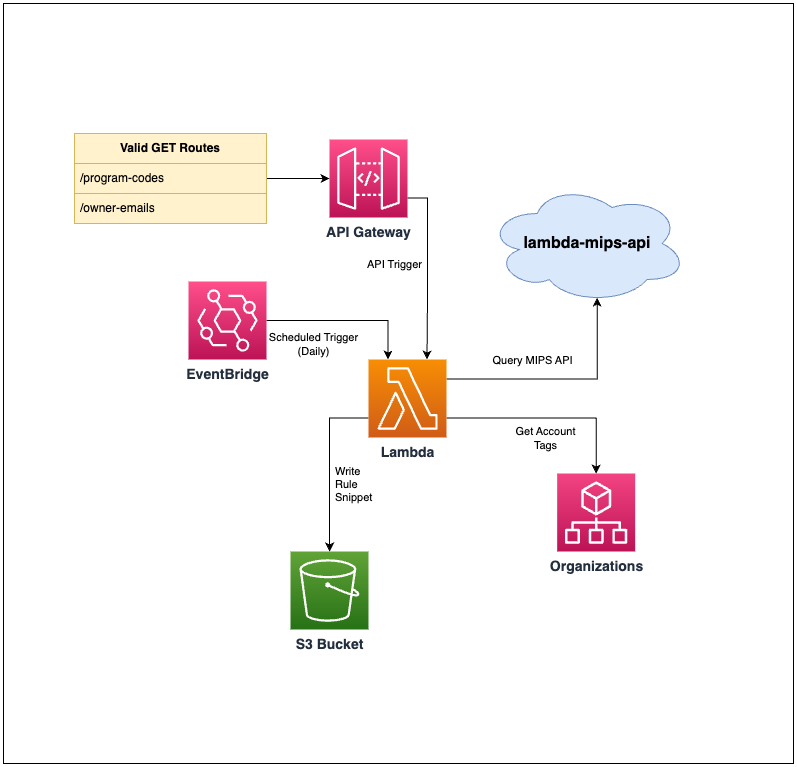
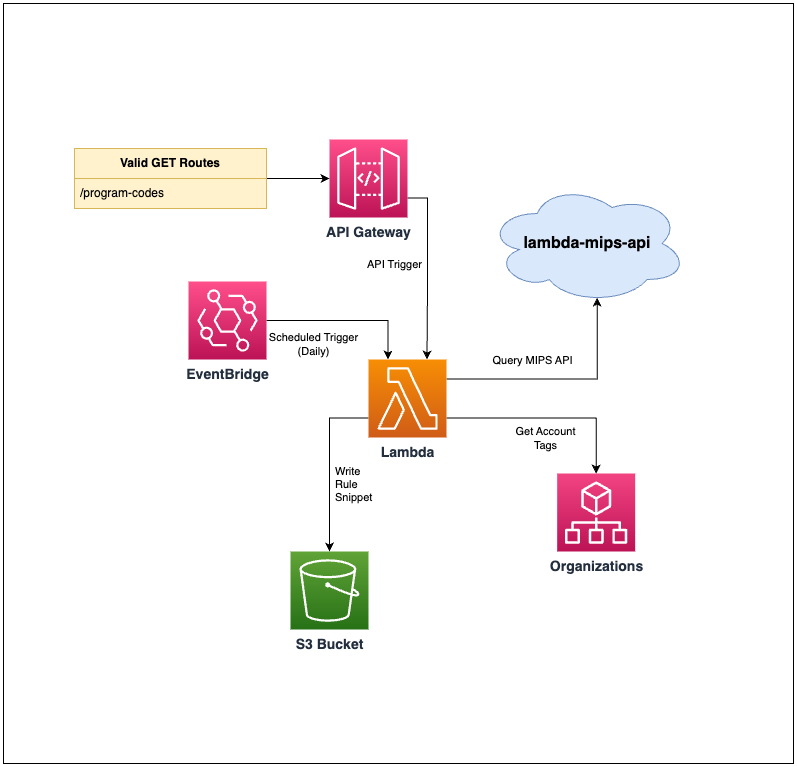
[IT-2460] Don't generate owner email rules
This generates invalid rules if there are account tags causing
the creation of REGULAR rules named for email addresses.

Remove the function per review.

Changed region(s): [[0.0903, 0.1499, 0.3312, 0.2999]]

diff --git a/README.md b/README.md
@@ -27,11 +27,6 @@ template parameter.
 Cost-category rules are created to assign line item costs to a category based on
 tags for the line item resource or its containing account.
 
-Two types of rules can be generated: rules for a Program Code category, or rules
-for an Owner Email category. The former assumes the tag contains a significant
-numeric code and requires additional external state, while the latter assumes
-that the entire tag value is a significant string.
-
 The order of the rules matters because processing will stop at the first match.
 For more information on rule processing, see the
 [AWS User Guide](https://docs.aws.amazon.com/awsaccountbilling/latest/aboutv2/manage-cost-categories.html).
@@ -47,16 +42,6 @@ First, this lambda will create cost-category rules that check a list of tags
 name, then also create rules for each account with an appropriate tag, and
 finally create rules to inherit the value from a listed tag if no other rule
 matches.
-
-#### Owner Email Category
-
-Rules for an Owner Email category can also be generated from existing account
-tags.
-
-In this case, we treat the tag value as authoritative (no code deduplication),
-and so we start with inheriting tag values from tags on individual resources. We
-then fall back to rules built from account tag values for any accounts tagged
-with a listed tag.
 
 ### Components
 
@@ -77,11 +62,10 @@ The following template parameters are passed through as environment variables
 | ------------------ | -------------------- | -------------------------------------------------------------------------- | ---------------------------------------------------------- |
 | ChartOfAccountsURL | ChartOfAccountsURL   | URL to the chart of accounts endpoint provided by `lambda-mips-api`        | https://lambda-mips-api.execute-api.amazonaws.com/accounts |
 | ProgramCodeTagList | ProgramCodeTagList   | Comma-separated list of tag names that may contain program-code assignment | CostCenter,CostCenterOther                                 |
-| OwnerEmailTagList  | OwnerEmailTagList    | Comma-separated list of tag names that may contain an owner email address  | OwnerEmail,synapseEmail                                    |
 
 ### Triggering
 
-Both functions will trigger on a nightly schedule, and can also be triggered
+The function will trigger on a nightly schedule, and can also be triggered
 manually via API Gateway endpoints.
 
 The CloudFormation template will output the available endpoint URLs for manually
@@ -92,15 +76,13 @@ stage name and endpoint path, e.g.: `https://<ApiDomain>/Prod/program-codes`
 
 ### Output
 
-This lambda will write JSON objects to an S3 bucket containing data to be passed
+This lambda will write a JSON object to an S3 bucket containing data to be passed
 to a Rules property of an AWS::CE::CostCategory resource. The rules generated
 are based on external state (current AWS account tags and output from another
 lambda).
 
 The rules for the Program Code category will be written to a file named
-`cost-categories/program-code-rules.yaml`, and the rules for the Owner Email
-category will be written to a file named
-`cost-categories/owner-email-rules.yaml`.
+`cost-categories/program-code-rules.yaml`.
 
 Example state and its expected output are listed below for each endpoint.
 
@@ -222,65 +204,6 @@ state:
 This string can be passed to the
 [`Rules` property for `AWS::CE::CostCategory`](https://docs.aws.amazon.com/AWSCloudFormation/latest/UserGuide/aws-resource-ce-costcategory.html#cfn-ce-costcategory-rules).
 
-#### Example Owner Email External State
-
-The owner-emails endpoint queries current account tags from AWS Organizations.
-
-Example existing AWS account tags:
-
-| Account ID   | Tag value from a tag listed in `TagList` |
-| ------------ | ---------------------------------------- |
-| 111122223333 | `foo@sagebase.org`                       |
-| 222233334444 | `foo@sagebase.org`                       |
-| 333344445555 | `bar@sagebase.org`                       |
-
-#### Example Owner Email Output
-
-The owner-emails endpoint will produce the following rules from the above state:
-
-```json
-[
-    {
-        "InheritedValue": {
-            "DimensionName": "TAG",
-            "DimensionKey": "TagOne"
-        },
-        "Type": "INHERITED_VALUE"
-    },
-    {
-        "InheritedValue": {
-            "DimensionName": "TAG",
-            "DimensionKey": "TagTwo"
-        },
-        "Type": "INHERITED_VALUE"
-    },
-    {
-        "Rule": {
-            "Dimensions": {
-                "Key": "LINKED_ACCOUNT",
-                "MatchOptions": ["EQUALS"],
-                "Values": ["111222333444", "333444555666"]
-            }
-        },
-         "Type": "REGULAR",
-        "Value": "foo@sagebase.org"
-    },
-    {
-        "Rule": {
-            "Dimensions": {
-                "Key": "LINKED_ACCOUNT",
-                "MatchOptions": ["EQUALS"],
-                "Values": ["222333444555"]
-            }
-        },
-        "Type": "REGULAR",
-        "Value": "bar@sagebase.org"
-    }
-]
-```
-
-This string can be passed to the
-[`Rules` property for `AWS::CE::CostCategory`](https://docs.aws.amazon.com/AWSCloudFormation/latest/UserGuide/aws-resource-ce-costcategory.html#cfn-ce-costcategory-rules).
 
 ### Example Usage
 
@@ -293,14 +216,6 @@ that it can be referenced by an AWS::Include transform, for example:
 AWSTemplateFormatVersion: '2010-09-09'
 Description: 'All Cost Categories'
 Resources:
-  OwnerEmailCostCategory:
-    Type: 'AWS::CE::CostCategory'
-    Properties:
-      Name: 'Owner Email'
-      'Fn:Transform':
-        Name: 'AWS::Include'
-        Parameters:
-          Location: 's3://<OutputBucket>/cost-categories/owner-email-rules.yaml'
   ProgramCodeCostCategory:
     Type: 'AWS::CE::CostCategory'
     Properties:
@@ -310,14 +225,6 @@ Resources:
         Parameters:
           Location: 's3://<OutputBucket>/cost-categories/program-code-rules.yaml'
 ```
-
-### Known Issues
-
-#### Account-based email rules
-
-The AWS Cost Category service will refuse to create a REGULAR rule if the name
-of the category contains special characters outside of `-` or `_`, and so
-categories named for email addresses can only be created by INHERIT rules.
 
 ## Development
 
